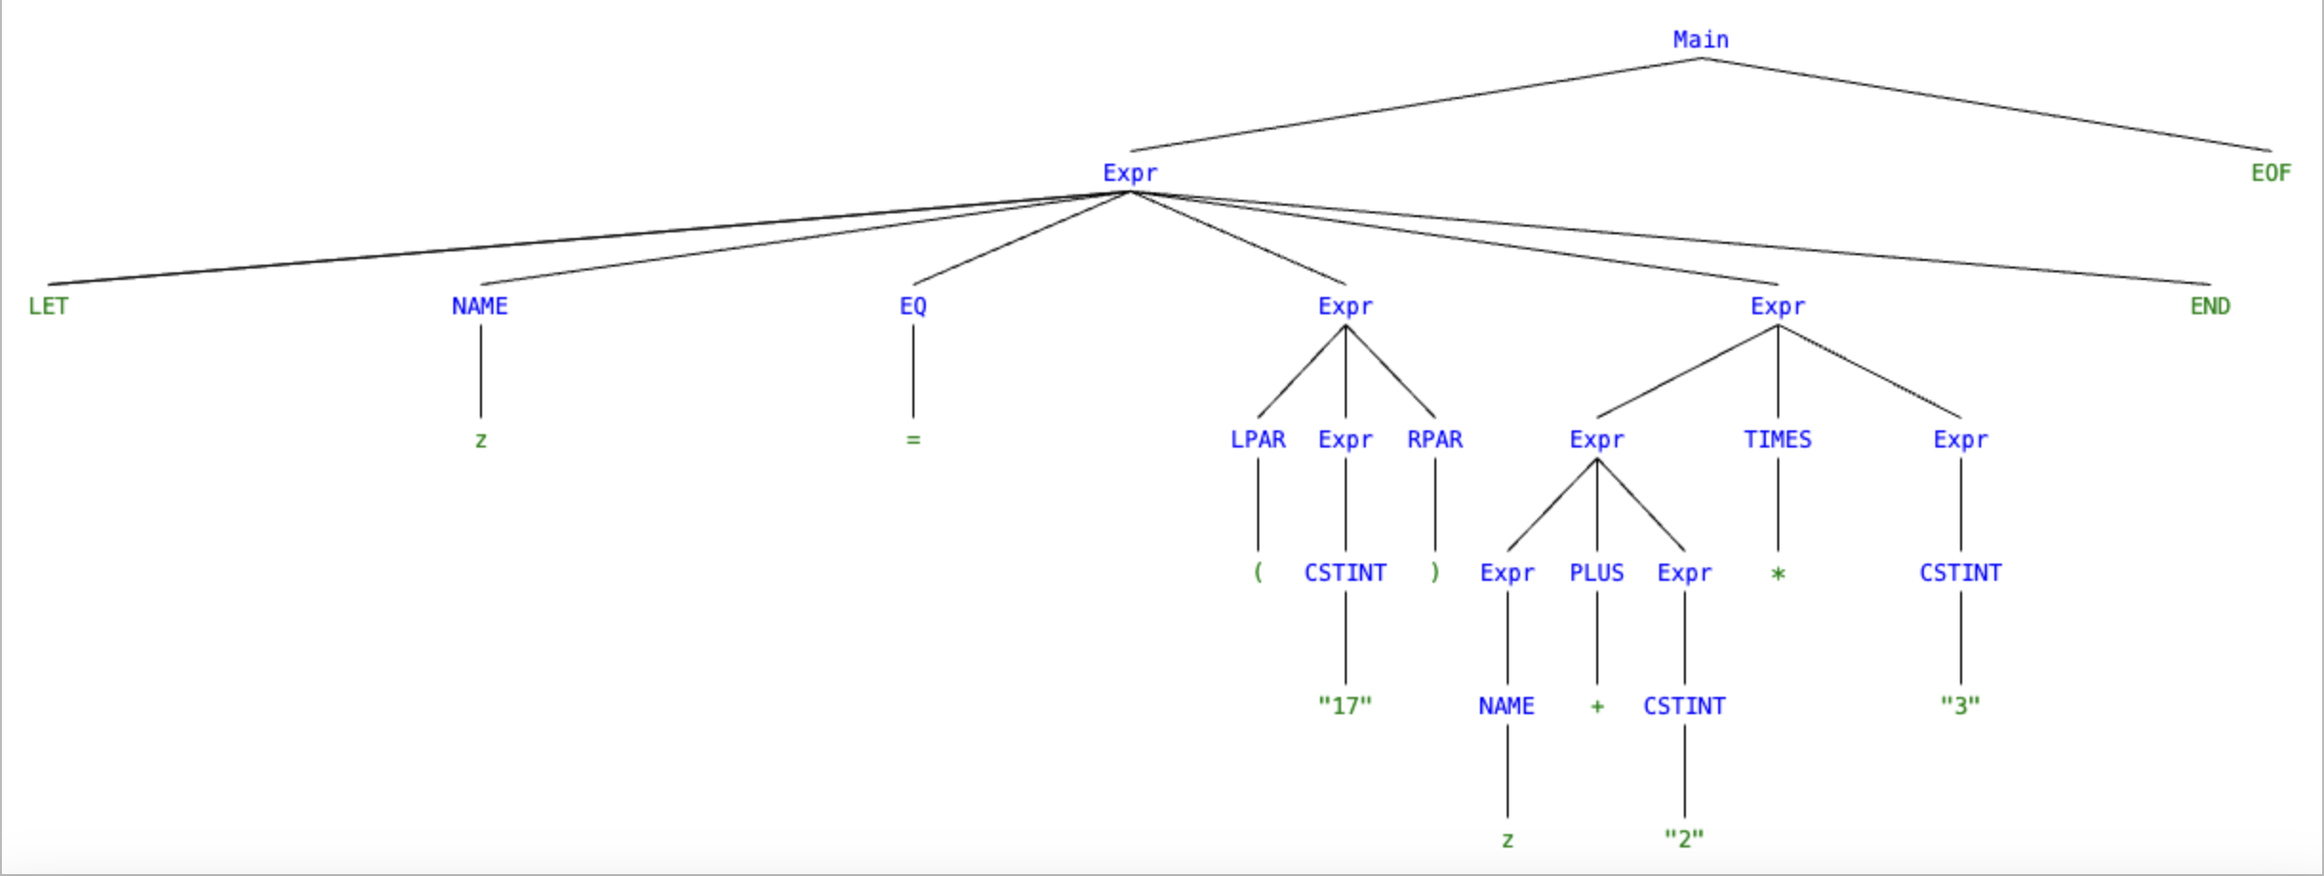
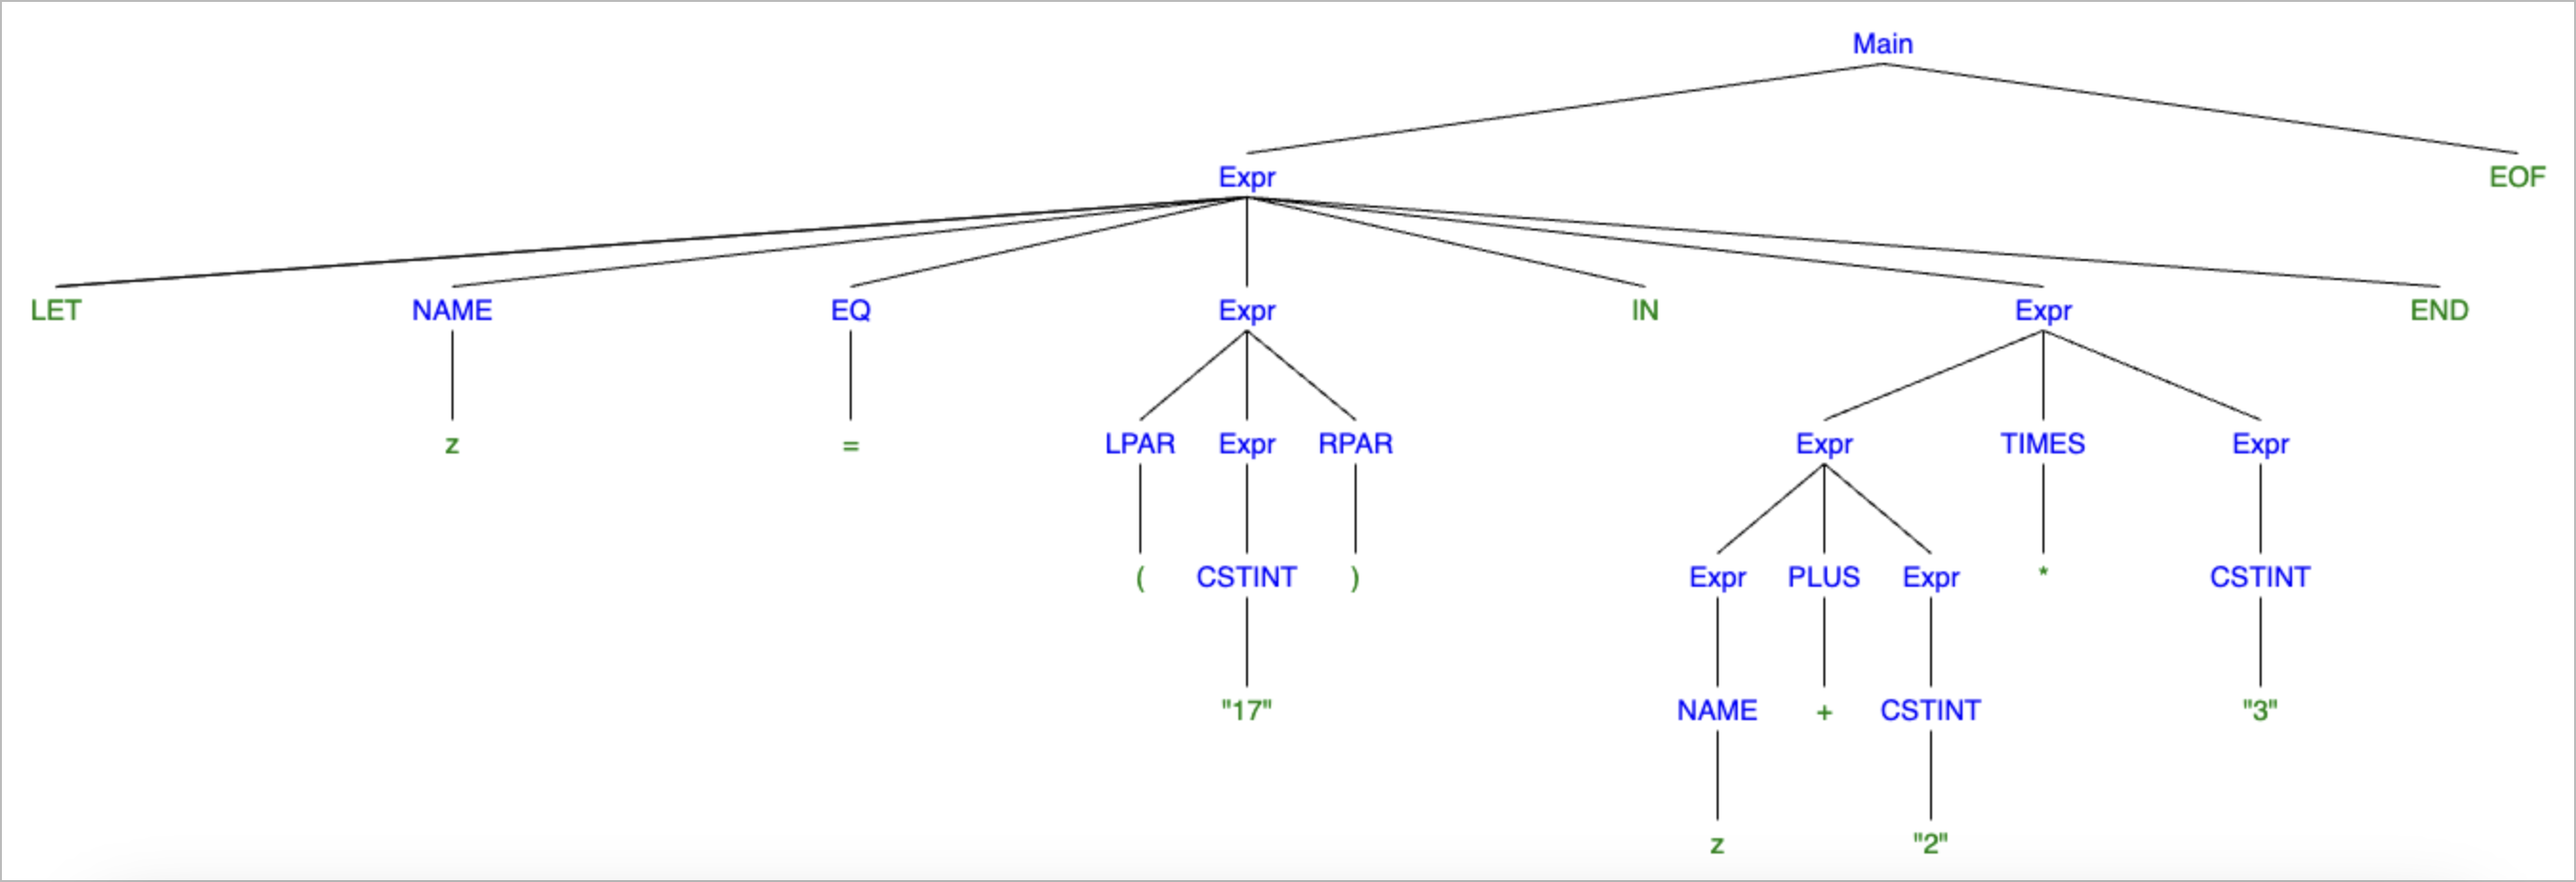
mistake in 3.4 changed

diff --git a/BPRD-03-OKRE-PEKP/Assignment3/README.md b/BPRD-03-OKRE-PEKP/Assignment3/README.md
@@ -74,7 +74,7 @@ Draw the above derivation as a tree.
 
 **Answer:**
 
-[//]: < [Main [Expr [LET][NAME [z]][EQ [=]][Expr [LPAR [(]] [Expr[CSTINT ["17"]]] [RPAR[)]]][Expr [Expr[Expr [NAME [z]]] [PLUS[+]] [Expr [CSTINT ["2"]]]] [TIMES [*]] [Expr [CSTINT ["3"]]]][END]][EOF]] (Drawing of tree line in generator)>
+[//]: < [Main [Expr [LET][NAME [z]][EQ [=]][Expr [LPAR [(]] [Expr[CSTINT ["17"]]] [RPAR[)]]] [IN] [Expr [Expr[Expr [NAME [z]]] [PLUS[+]] [Expr [CSTINT ["2"]]]] [TIMES [*]] [Expr [CSTINT ["3"]]]][END]][EOF]] (Drawing of tree line in generator)>
 
 ![Tree](Appendix/tree.png)
 
